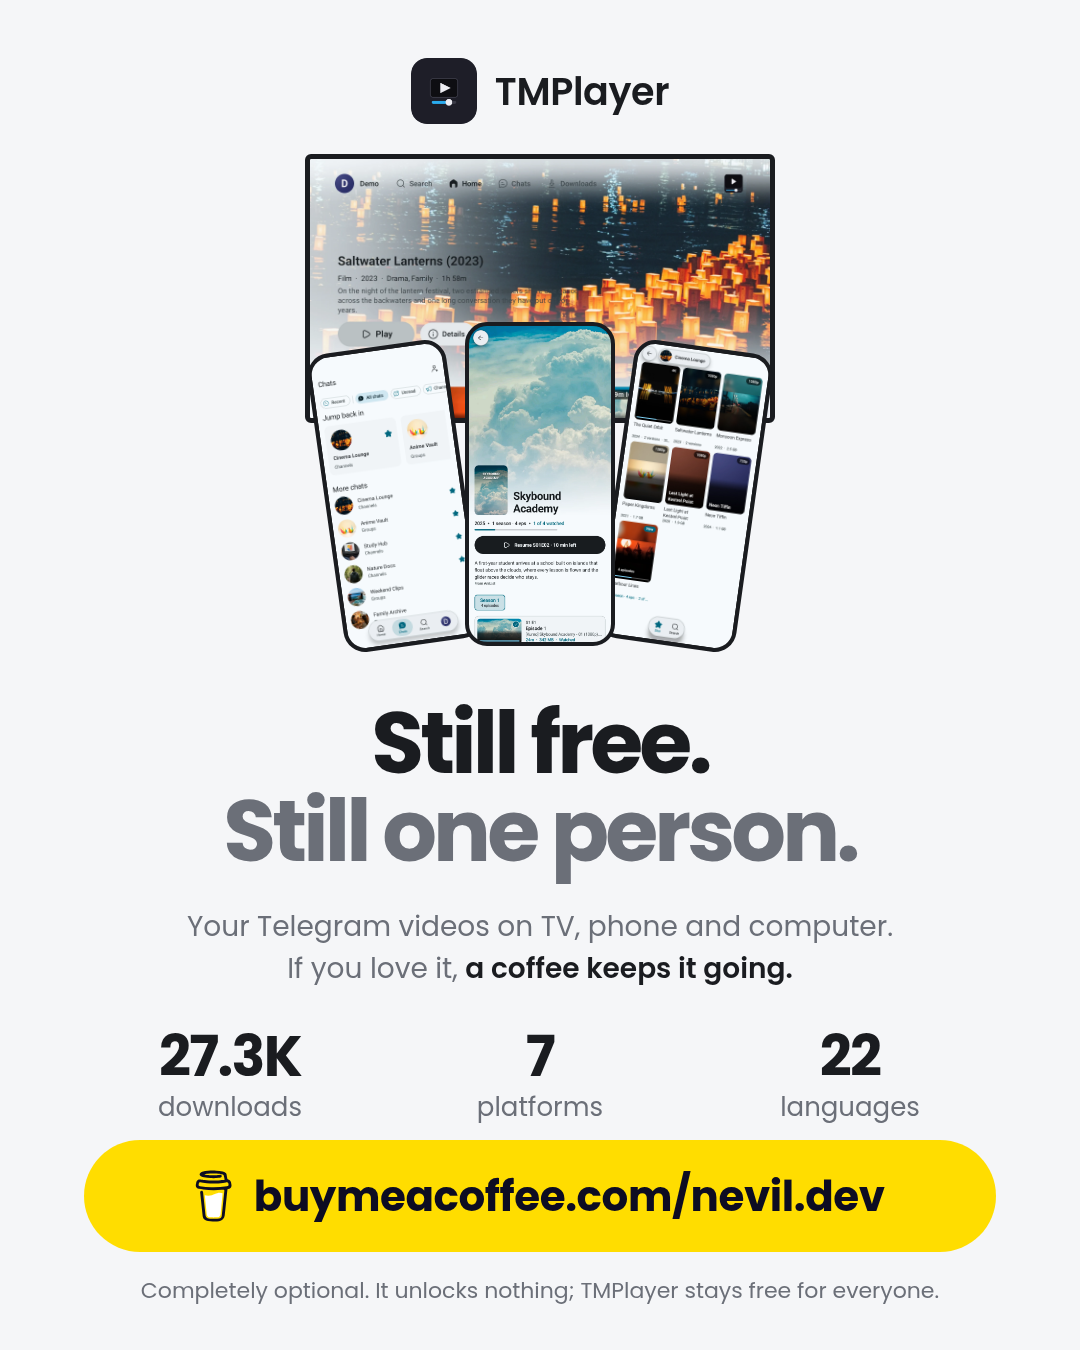
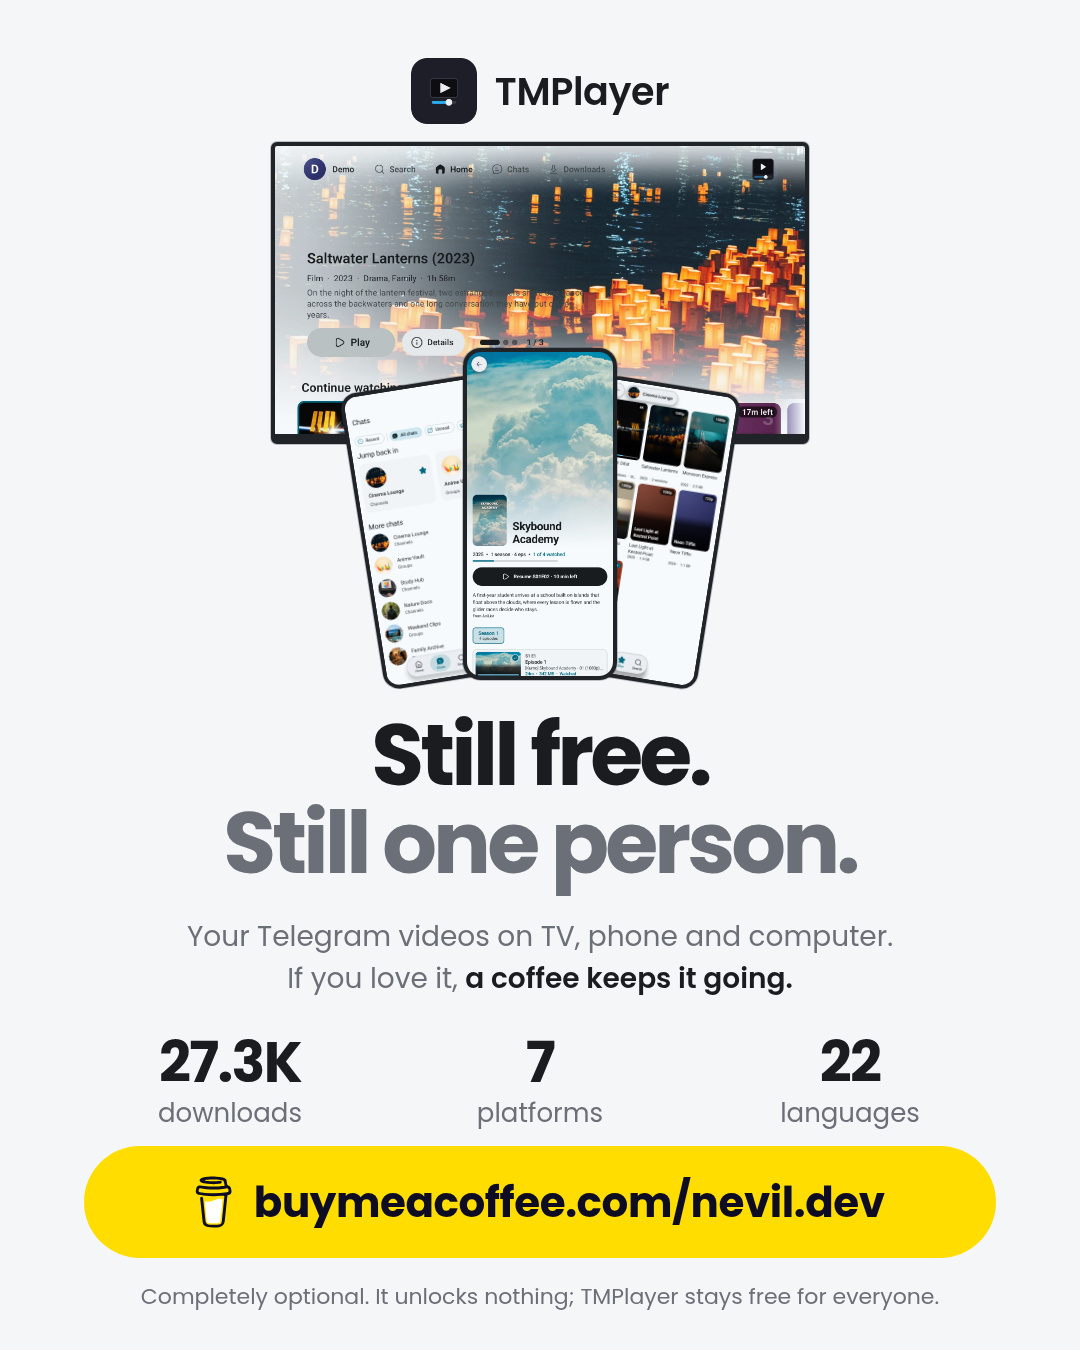
Site: the sponsor card's devices use the home hero's geometry (same percentages, device shells, fan angles and stand)

Changed region(s): [[0.0917, 0.0933, 0.9167, 0.9644]]

diff --git a/scripts/social-card-sponsor.html b/scripts/social-card-sponsor.html
@@ -16,50 +16,58 @@
   .brand img { width: 66px; height: 66px; border-radius: 16px; }
   .brand span { font-size: 38px; font-weight: 600; letter-spacing: -0.01em; }
 
-  .stage { position: absolute; top: 146px; left: 0; width: 1080px; height: 500px; }
-  .tv { position: absolute; left: 305px; top: 8px; width: 470px; border: 5px solid #1a1c20;
-    border-radius: 6px; background: #000; overflow: hidden; }
-  .tv img { display: block; width: 100%; }
-  /* The three phones fan out symmetrically around the page's centre line (x = 540), the middle one
-     upright and a little larger in front, the outer two tilted away from it behind, all three
-     standing on the same baseline (top + height, 1:2.22 screens). */
-  .ph { position: absolute; width: 140px; border: 4px solid #1a1c20; border-radius: 22px;
-    overflow: hidden; background: #000; transform-origin: 50% 100%; }
-  .ph img { display: block; width: 100%; }
-  .ph.c { left: 465px; top: 176px; width: 150px; z-index: 3; }
-  .ph.l { left: 346px; top: 198px; transform: rotate(-8deg); z-index: 2; }
-  .ph.r { left: 594px; top: 198px; transform: rotate(8deg); z-index: 2; }
+  /* The stage is the home page's hero (site/src/components/home/HeroStage.astro, styles.css
+     "Hero stage"), same numbers: a box of 100:84 whose children are percentages of its width, the
+     television at the back (8% in, 84% wide), the three phones standing on the floor, 24% wide,
+     each turning about its own foot, the sides at -9 and 9 degrees and 0.9 scale, the middle one
+     in front. The frames are the site's device shells. */
+  .stage { position: absolute; top: 142px; left: 220px; width: 640px; aspect-ratio: 100 / 84; }
+  .tv { position: absolute; top: 0; left: 8%; width: 84%; padding-bottom: 16px; }
+  .tv .screen { aspect-ratio: 16 / 9; border: 4px solid #202429; border-bottom-width: 10.4px;
+    border-radius: 6px; box-shadow: 0 0 0 1px rgba(15,23,42,0.24); overflow: hidden; background: #000; }
+  .tv .screen img { display: block; width: 100%; height: 100%; object-fit: cover; }
+  .tv .stand { position: absolute; bottom: 0; left: 50%; width: 11%; height: 22px;
+    transform: translateX(-50%); background: #202429;
+    clip-path: polygon(0 100%, 40% 0, 60% 0, 100% 100%, 82% 100%, 50% 30%, 18% 100%); }
+  .slot { position: absolute; bottom: 0; width: 24%; transform-origin: 50% 100%; }
+  .slot.l { left: 24.5%; rotate: -9deg; scale: 0.9; z-index: 1; }
+  .slot.r { left: 51.5%; rotate: 9deg; scale: 0.9; z-index: 1; }
+  .slot.c { left: 38%; z-index: 2; }
+  .phone { padding: 4px; background: #202429; border-radius: 18px;
+    box-shadow: 0 0 0 1px rgba(15,23,42,0.24); }
+  .phone .screen { aspect-ratio: 9 / 20; border-radius: 14px; overflow: hidden; background: #000; }
+  .phone .screen img { display: block; width: 100%; height: 100%; object-fit: cover; }
 
-  h1 { position: absolute; top: 700px; left: 0; right: 0; font-size: 86px; line-height: 1.02;
+  h1 { position: absolute; top: 712px; left: 0; right: 0; font-size: 86px; line-height: 1.02;
     font-weight: 700; letter-spacing: -0.045em; }
   h1 span { display: block; color: #6b6f78; }
-  .sub { position: absolute; top: 906px; left: 0; right: 0; font-size: 28px; line-height: 1.5;
+  .sub { position: absolute; top: 916px; left: 0; right: 0; font-size: 28px; line-height: 1.5;
     color: #6b6f78; }
   .sub b { font-weight: 600; color: #1a1c20; }
 
-  .stats { position: absolute; top: 1026px; left: 90px; right: 90px; display: flex;
+  .stats { position: absolute; top: 1032px; left: 90px; right: 90px; display: flex;
     justify-content: space-between; }
   .stat { width: 280px; }
   .stat b { display: block; font-size: 56px; line-height: 1.1; font-weight: 700;
     letter-spacing: -0.03em; }
   .stat span { font-size: 26px; color: #6b6f78; }
 
-  .cta { position: absolute; top: 1140px; left: 84px; right: 84px; height: 112px;
+  .cta { position: absolute; top: 1146px; left: 84px; right: 84px; height: 112px;
     border-radius: 56px; background: #FFDD00; display: flex; align-items: center;
     justify-content: center; gap: 22px; font-size: 42px; font-weight: 700;
     letter-spacing: -0.01em; color: #0d0c22; }
   .cta img { height: 52px; }
-  .note { position: absolute; top: 1274px; left: 0; right: 0; font-size: 22px; color: #6b6f78; }
+  .note { position: absolute; top: 1280px; left: 0; right: 0; font-size: 22px; color: #6b6f78; }
 </style>
 </head>
 <body>
   <div class="brand"><img src="../site/public/icon-512.png" alt=""><span>TMPlayer</span></div>
 
   <div class="stage">
-    <div class="tv"><img src="../site/public/screenshots/tv-home-light.webp" alt=""></div>
-    <div class="ph l"><img src="../site/public/screenshots/phone-chats-light.webp" alt=""></div>
-    <div class="ph r"><img src="../site/public/screenshots/phone-grid-light.webp" alt=""></div>
-    <div class="ph c"><img src="../site/public/screenshots/phone-show-light.webp" alt=""></div>
+    <div class="tv"><div class="screen"><img src="../site/public/screenshots/tv-home-light.webp" alt=""></div><div class="stand"></div></div>
+    <div class="slot l"><div class="phone"><div class="screen"><img src="../site/public/screenshots/phone-chats-light.webp" alt=""></div></div></div>
+    <div class="slot r"><div class="phone"><div class="screen"><img src="../site/public/screenshots/phone-grid-light.webp" alt=""></div></div></div>
+    <div class="slot c"><div class="phone"><div class="screen"><img src="../site/public/screenshots/phone-show-light.webp" alt=""></div></div></div>
   </div>
 
   <h1>Still free.<span>Still one person.</span></h1>

diff --git a/scripts/build-sponsor-card.py b/scripts/build-sponsor-card.py
@@ -37,50 +37,58 @@ def page(downloads: str, platforms: int, languages: int) -> str:
   .brand img {{ width: 66px; height: 66px; border-radius: 16px; }}
   .brand span {{ font-size: 38px; font-weight: 600; letter-spacing: -0.01em; }}
 
-  .stage {{ position: absolute; top: 146px; left: 0; width: 1080px; height: 500px; }}
-  .tv {{ position: absolute; left: 305px; top: 8px; width: 470px; border: 5px solid #1a1c20;
-    border-radius: 6px; background: #000; overflow: hidden; }}
-  .tv img {{ display: block; width: 100%; }}
-  /* The three phones fan out symmetrically around the page's centre line (x = 540), the middle one
-     upright and a little larger in front, the outer two tilted away from it behind, all three
-     standing on the same baseline (top + height, 1:2.22 screens). */
-  .ph {{ position: absolute; width: 140px; border: 4px solid #1a1c20; border-radius: 22px;
-    overflow: hidden; background: #000; transform-origin: 50% 100%; }}
-  .ph img {{ display: block; width: 100%; }}
-  .ph.c {{ left: 465px; top: 176px; width: 150px; z-index: 3; }}
-  .ph.l {{ left: 346px; top: 198px; transform: rotate(-8deg); z-index: 2; }}
-  .ph.r {{ left: 594px; top: 198px; transform: rotate(8deg); z-index: 2; }}
+  /* The stage is the home page's hero (site/src/components/home/HeroStage.astro, styles.css
+     "Hero stage"), same numbers: a box of 100:84 whose children are percentages of its width, the
+     television at the back (8% in, 84% wide), the three phones standing on the floor, 24% wide,
+     each turning about its own foot, the sides at -9 and 9 degrees and 0.9 scale, the middle one
+     in front. The frames are the site's device shells. */
+  .stage {{ position: absolute; top: 142px; left: 220px; width: 640px; aspect-ratio: 100 / 84; }}
+  .tv {{ position: absolute; top: 0; left: 8%; width: 84%; padding-bottom: 16px; }}
+  .tv .screen {{ aspect-ratio: 16 / 9; border: 4px solid #202429; border-bottom-width: 10.4px;
+    border-radius: 6px; box-shadow: 0 0 0 1px rgba(15,23,42,0.24); overflow: hidden; background: #000; }}
+  .tv .screen img {{ display: block; width: 100%; height: 100%; object-fit: cover; }}
+  .tv .stand {{ position: absolute; bottom: 0; left: 50%; width: 11%; height: 22px;
+    transform: translateX(-50%); background: #202429;
+    clip-path: polygon(0 100%, 40% 0, 60% 0, 100% 100%, 82% 100%, 50% 30%, 18% 100%); }}
+  .slot {{ position: absolute; bottom: 0; width: 24%; transform-origin: 50% 100%; }}
+  .slot.l {{ left: 24.5%; rotate: -9deg; scale: 0.9; z-index: 1; }}
+  .slot.r {{ left: 51.5%; rotate: 9deg; scale: 0.9; z-index: 1; }}
+  .slot.c {{ left: 38%; z-index: 2; }}
+  .phone {{ padding: 4px; background: #202429; border-radius: 18px;
+    box-shadow: 0 0 0 1px rgba(15,23,42,0.24); }}
+  .phone .screen {{ aspect-ratio: 9 / 20; border-radius: 14px; overflow: hidden; background: #000; }}
+  .phone .screen img {{ display: block; width: 100%; height: 100%; object-fit: cover; }}
 
-  h1 {{ position: absolute; top: 700px; left: 0; right: 0; font-size: 86px; line-height: 1.02;
+  h1 {{ position: absolute; top: 712px; left: 0; right: 0; font-size: 86px; line-height: 1.02;
     font-weight: 700; letter-spacing: -0.045em; }}
   h1 span {{ display: block; color: #6b6f78; }}
-  .sub {{ position: absolute; top: 906px; left: 0; right: 0; font-size: 28px; line-height: 1.5;
+  .sub {{ position: absolute; top: 916px; left: 0; right: 0; font-size: 28px; line-height: 1.5;
     color: #6b6f78; }}
   .sub b {{ font-weight: 600; color: #1a1c20; }}
 
-  .stats {{ position: absolute; top: 1026px; left: 90px; right: 90px; display: flex;
+  .stats {{ position: absolute; top: 1032px; left: 90px; right: 90px; display: flex;
     justify-content: space-between; }}
   .stat {{ width: 280px; }}
   .stat b {{ display: block; font-size: 56px; line-height: 1.1; font-weight: 700;
     letter-spacing: -0.03em; }}
   .stat span {{ font-size: 26px; color: #6b6f78; }}
 
-  .cta {{ position: absolute; top: 1140px; left: 84px; right: 84px; height: 112px;
+  .cta {{ position: absolute; top: 1146px; left: 84px; right: 84px; height: 112px;
     border-radius: 56px; background: #FFDD00; display: flex; align-items: center;
     justify-content: center; gap: 22px; font-size: 42px; font-weight: 700;
     letter-spacing: -0.01em; color: #0d0c22; }}
   .cta img {{ height: 52px; }}
-  .note {{ position: absolute; top: 1274px; left: 0; right: 0; font-size: 22px; color: #6b6f78; }}
+  .note {{ position: absolute; top: 1280px; left: 0; right: 0; font-size: 22px; color: #6b6f78; }}
 </style>
 </head>
 <body>
   <div class="brand"><img src="../site/public/icon-512.png" alt=""><span>TMPlayer</span></div>
 
   <div class="stage">
-    <div class="tv"><img src="../site/public/screenshots/tv-home-light.webp" alt=""></div>
-    <div class="ph l"><img src="../site/public/screenshots/phone-chats-light.webp" alt=""></div>
-    <div class="ph r"><img src="../site/public/screenshots/phone-grid-light.webp" alt=""></div>
-    <div class="ph c"><img src="../site/public/screenshots/phone-show-light.webp" alt=""></div>
+    <div class="tv"><div class="screen"><img src="../site/public/screenshots/tv-home-light.webp" alt=""></div><div class="stand"></div></div>
+    <div class="slot l"><div class="phone"><div class="screen"><img src="../site/public/screenshots/phone-chats-light.webp" alt=""></div></div></div>
+    <div class="slot r"><div class="phone"><div class="screen"><img src="../site/public/screenshots/phone-grid-light.webp" alt=""></div></div></div>
+    <div class="slot c"><div class="phone"><div class="screen"><img src="../site/public/screenshots/phone-show-light.webp" alt=""></div></div></div>
   </div>
 
   <h1>Still free.<span>Still one person.</span></h1>
